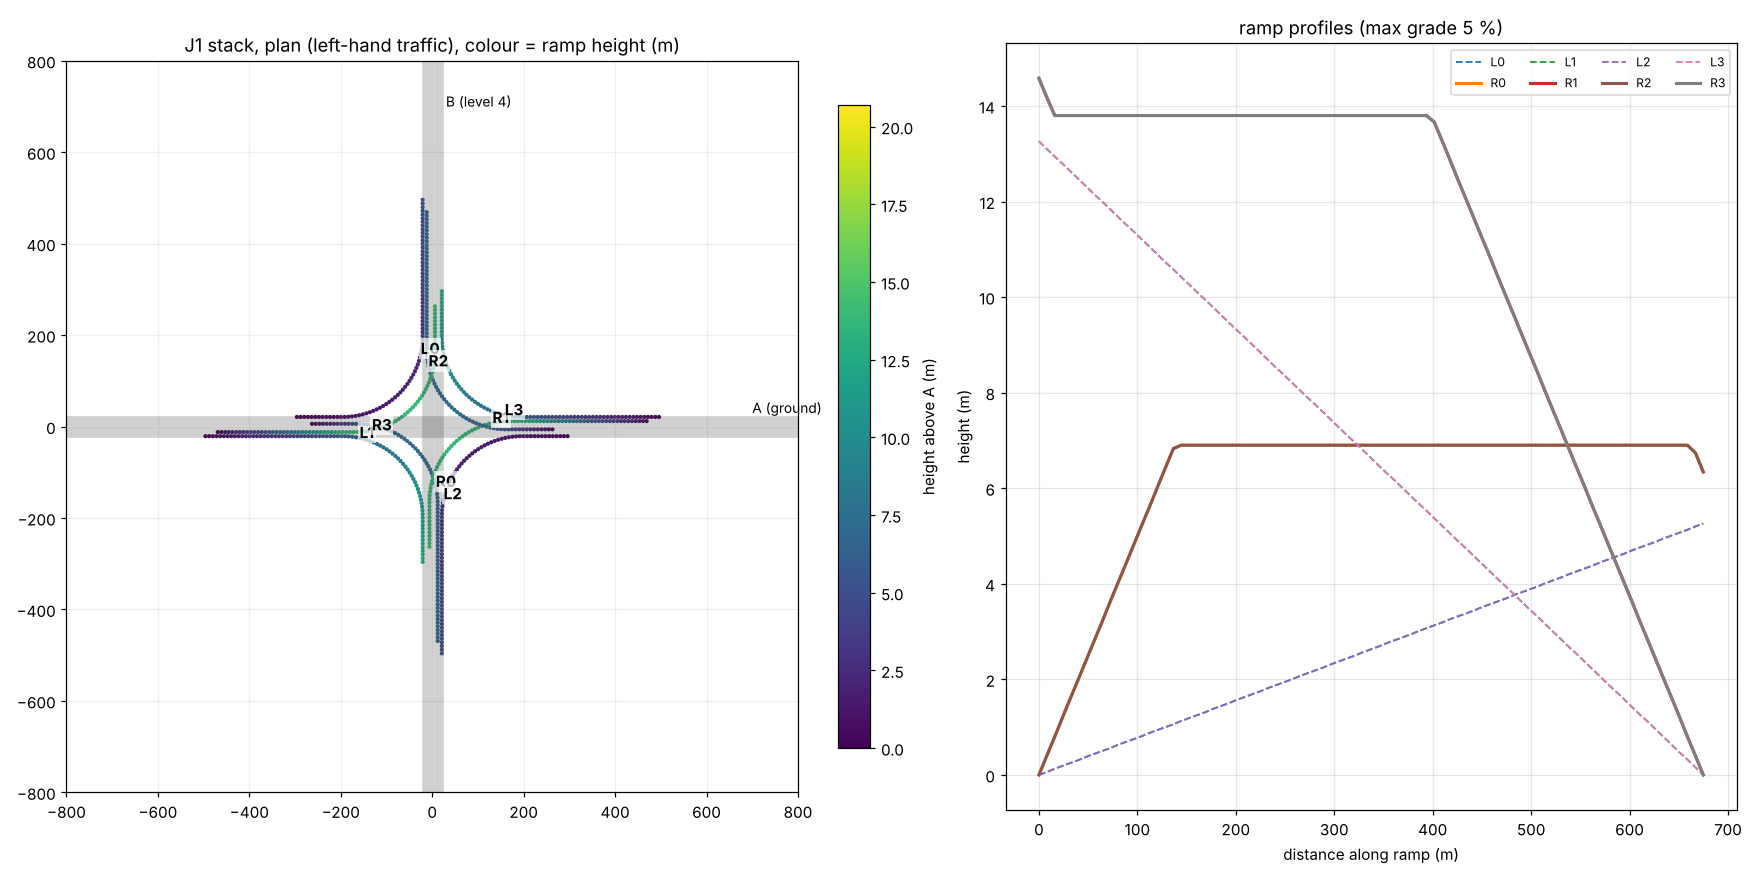
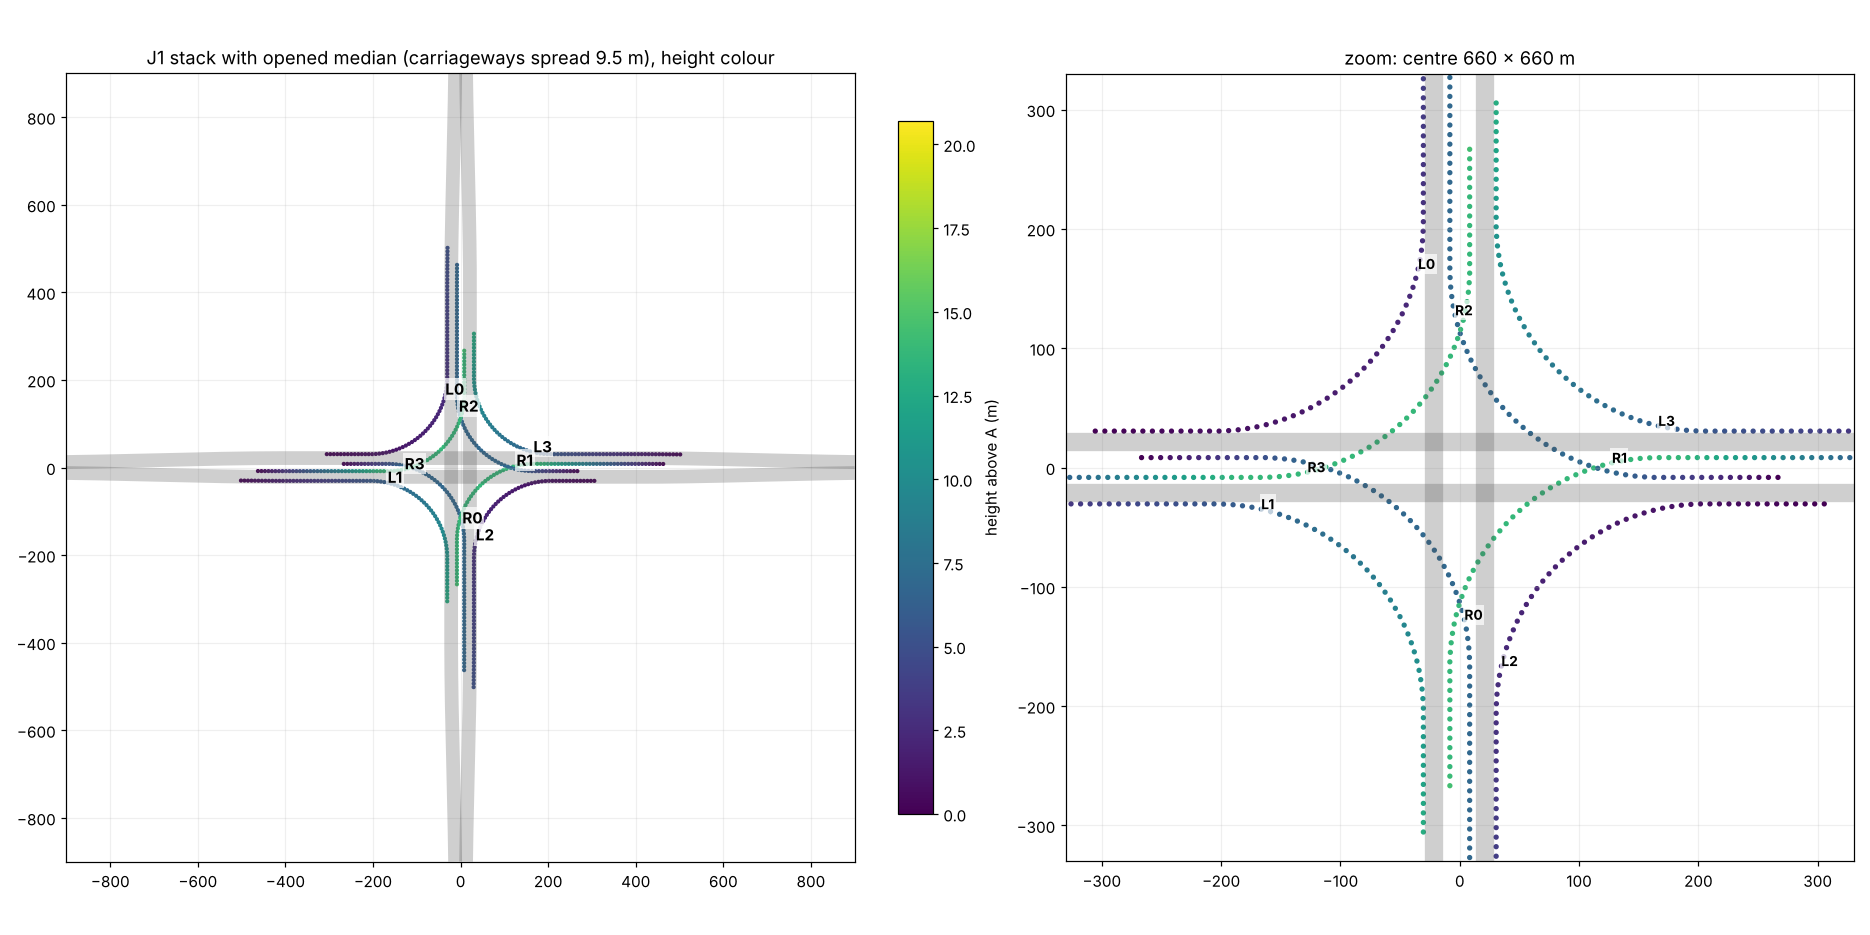
ew

diff --git a/src/interchange/m8/StackGeometry.ts b/src/interchange/m8/StackGeometry.ts
@@ -2,12 +2,23 @@
 // Road A stays on the ground (level 1). Road B is level 4 (20.7 m) over the crossing and falls to the ground at 4 %. 8 ramps = 2 shapes (left slip, right flyover) x 4 rotations.
 import { DEG, Turtle, minRadius as pathMinR, pathLength, resample, rot90, crossings, type P2 } from '../Geometry2D';
 import { DESIGN } from '../../roads/standards/Criteria';
-import { minRadius } from '../../roads/standards/Checks';
+import { laneDropTaper, minRadius } from '../../roads/standards/Checks';
 import { LEVEL_RISE } from './M8Designs';
 
 export const LANE_OFF = 12; // centre of a carriageway from the road axis (outer lane), m
 export const B_TOP = 3 * LEVEL_RISE; // road B over the crossing
 export const B_FLAT = 110; // road B stays at full height this far each side of the centre (the ramps pass under it)
+/** MEDIAN OPENING: the two carriageways of a road move apart by DELTA_F (full from the crossing out to U_FULL), then come back over a shift taper (lane-drop rule 0.62 W V per lane of shift).
+ * The directional ramps run in the opened median, 6 m clear of the pavement edge. */
+export const DELTA_F = 9.5;
+export const U_FULL = 400;
+export const SHIFT_LEN = laneDropTaper(DESIGN.ringSpeed) * (DELTA_F / DESIGN.laneWidth);
+const sm = (t: number): number => (t <= 0 ? 0 : t >= 1 ? 1 : t * t * (3 - 2 * t));
+/** Extra offset (m) of the carriageway centrelines at distance t (along the road) from the crossing. */
+export const spread = (t: number): number => DELTA_F * (1 - sm((Math.abs(t) - U_FULL) / SHIFT_LEN));
+/** Carriageway centre offset from the road axis at distance t. */
+export const cOff = (t: number): number => LANE_OFF + spread(t);
+export const RAMP_MED = 8.3; // ramp centre in the opened median (pavement edge 4.5 + DELTA_F = 14, minus 1.5 shoulder, minus 4.2 half ramp)
 export const yB = (v: number): number => Math.max(0, B_TOP - DESIGN.maxGrade.motorway * Math.max(0, Math.abs(v) - B_FLAT));
 
 export interface StackRamp {
@@ -31,13 +42,22 @@ export function buildStack(P = { Rleft: 175, Rright: 175, run: 100, tail: 300, p
     for (const shape of ['left', 'right'] as const) {
       const R = shape === 'left' ? P.Rleft : P.Rright;
       const V = 60;
-      // k = 0: starts on A going +u. left: leaves the OUTER side (v = +21) and turns left into B+ (u = -21, going +v). right: leaves the MEDIAN side (v = +6) and turns right into B- (u = +12, going -v).
-      const endU = shape === 'left' ? -21 : LANE_OFF;
-      const startV = shape === 'left' ? 21 : 6;
-      const sign = shape === 'left' ? 1 : -1;
+      // k = 0: starts on A going +u. left: leaves the OUTER side and turns left into B+ (going +v), then runs as the outer auxiliary lane of B+.
+      // right: leaves the opened MEDIAN (v = RAMP_MED) and turns right into B- (going -v), then runs in the median beside B- and converges to its inner auxiliary lane.
+      const outer = LANE_OFF + 9 + DELTA_F; // outer auxiliary lane centre at full spread
+      const startV = shape === 'left' ? outer : RAMP_MED;
+      const endU = shape === 'left' ? -outer : RAMP_MED;
       const startU = endU - P.run - R; // a quarter arc moves u by +R for a left AND a right turn
-      const t = new Turtle(startU - 0, startV, 0).straight(P.run).arc(R, sign * 90 * DEG).straight(P.tail);
-      const base = resample(t.pts, 8);
+      const t = new Turtle(startU, startV, 0).straight(P.run).arc(R, (shape === 'left' ? 1 : -1) * 90 * DEG);
+      const arcEnd = t.pts[t.pts.length - 1];
+      const dir = shape === 'left' ? 1 : -1; // tail runs along +v (left) or -v (right)
+      const tail: P2[] = [];
+      for (let d = 8; d <= P.tail + 1e-6; d += 8) {
+        const v = arcEnd.v + dir * d;
+        const sp = spread(v);
+        tail.push({ u: shape === 'left' ? -(LANE_OFF + 9 + sp) : RAMP_MED - (DELTA_F - sp) * ((RAMP_MED - 2.7) / DELTA_F), v });
+      }
+      const base = resample([...t.pts, ...tail], 8);
       const pts = base.map((p) => rot90(p, k));
       const L = pathLength(pts);
       const cum = [0];
@@ -73,9 +93,13 @@ const yAt = (r: StackRamp, f: number): number => lerpAt(r.ys, f);
 /** Every 2D crossing of two ramps, and of a ramp with the 4 carriageway centrelines; the height gap must be >= clearance + deck (LEVEL_RISE). */
 export function clearanceConflicts(ramps: StackRamp[], L = 800): Conflict[] {
   const roads: { id: string; pts: P2[]; y: (p: P2) => number }[] = [];
-  for (const [id, a, b] of [['A+', { u: -L, v: LANE_OFF }, { u: L, v: LANE_OFF }], ['A-', { u: -L, v: -LANE_OFF }, { u: L, v: -LANE_OFF }], ['B+', { u: -LANE_OFF, v: -L }, { u: -LANE_OFF, v: L }], ['B-', { u: LANE_OFF, v: -L }, { u: LANE_OFF, v: L }]] as const) {
+  for (const id of ['A+', 'A-', 'B+', 'B-']) {
     const pts: P2[] = [];
-    for (let i = 0; i <= 200; i++) pts.push({ u: a.u + ((b.u - a.u) * i) / 200, v: a.v + ((b.v - a.v) * i) / 200 });
+    for (let i = 0; i <= 400; i++) {
+      const t = -L + (2 * L * i) / 400;
+      const o = cOff(t) * (id[1] === '+' ? 1 : -1);
+      pts.push(id[0] === 'A' ? { u: t, v: o } : { u: -o, v: t });
+    }
     roads.push({ id, pts, y: id[0] === 'A' ? () => 0 : (p) => yB(p.v) });
   }
   const out: Conflict[] = [];
@@ -100,6 +124,30 @@ export function clearanceConflicts(ramps: StackRamp[], L = 800): Conflict[] {
       const gap = Math.abs(ya - yb);
       if (gap < need - 1e-6) out.push({ a: ramps[i].id, b: ramps[j].id, u: c.u, v: c.v, ya, yb, gap });
     }
+  }
+  return out;
+}
+
+/** The median opening check: a ramp must stay clear of the pavement of every carriageway (half pavement 7.3 + ramp half 4.2 + 1.0 m) unless it is at least a level above / below it.
+ * Its own source road is skipped for the diverge run and its target road along the merge tail (auxiliary lane beside the pavement). */
+export function medianConflicts(ramps: StackRamp[], tail = 300, run = 100): { ramp: string; road: string; u: number; v: number; d: number }[] {
+  const out: { ramp: string; road: string; u: number; v: number; d: number }[] = [];
+  const need = 7.3 + 4.2 + 1.0;
+  for (const r of ramps) {
+    r.pts.forEach((p, i) => {
+      for (const id of ['A+', 'A-', 'B+', 'B-']) {
+        const t = id[0] === 'A' ? p.u : p.v;
+        const sgn = id[1] === '+' ? 1 : -1;
+        const c = cOff(t) * sgn;
+        const d = id[0] === 'A' ? Math.abs(p.v - c) : Math.abs(p.u + c);
+        const yRoad = id[0] === 'A' ? 0 : yB(p.v);
+        if (Math.abs(r.ys[i] - yRoad) >= LEVEL_RISE) continue;
+        const own = id[0] === r.source && r.cum[i] < run + 60;
+        const ownT = id[0] === r.target && r.length - r.cum[i] < tail + 70; // + the last part of the arc, where the ramp converges on the auxiliary lane
+        if (own || ownT) continue;
+        if (d < need) out.push({ ramp: r.id, road: id, u: p.u, v: p.v, d });
+      }
+    });
   }
   return out;
 }

diff --git a/scripts/m8-stack-check.ts b/scripts/m8-stack-check.ts
@@ -1,7 +1,7 @@
 // STEP 9.2 J1 stack check: ramp radius, grade, and vertical clearance at every crossing. Writes docs/m8_stack_plan.json for the plan picture.
 // Run: npx tsx scripts/m8-stack-check.ts
 import { writeFileSync } from 'node:fs';
-import { buildStack, clearanceConflicts, rampMaxGrade, rampMinRadius, rampRminLimit } from '../src/interchange/m8/StackGeometry';
+import { buildStack, clearanceConflicts, medianConflicts, DELTA_F, SHIFT_LEN, U_FULL, rampMaxGrade, rampMinRadius, rampRminLimit } from '../src/interchange/m8/StackGeometry';
 
 const ramps = buildStack();
 let fails = 0;
@@ -14,5 +14,9 @@ for (const r of ramps) {
 const cf = clearanceConflicts(ramps);
 for (const c of cf) console.log(`  CONFLICT ${c.a} x ${c.b} at (${c.u.toFixed(0)}, ${c.v.toFixed(0)}) heights ${c.ya.toFixed(1)} / ${c.yb.toFixed(1)}  gap ${c.gap.toFixed(1)} m < 6.9`);
 console.log(`  clearance: ${cf.length} conflicts`);
+const mc = medianConflicts(ramps);
+for (const c of mc.slice(0, 12)) console.log(`  MEDIAN ${c.ramp} too close to ${c.road} at (${c.u.toFixed(0)}, ${c.v.toFixed(0)}) d ${c.d.toFixed(1)} m < 13.5`);
+console.log(`  median opening: spread ${DELTA_F} m each carriageway, full to ${U_FULL} m, shift taper ${SHIFT_LEN.toFixed(0)} m; ${mc.length} ramp points too close to a pavement`);
+if (mc.length) fails++;
 writeFileSync('docs/m8_stack_plan.json', JSON.stringify(ramps.map((r) => ({ id: r.id, shape: r.shape, u: r.pts.map((p) => +p.u.toFixed(1)), v: r.pts.map((p) => +p.v.toFixed(1)), y: r.ys.map((y) => +y.toFixed(2)) }))));
 console.log(fails || cf.length ? `FAILED radius/grade ${fails}, clearance ${cf.length}` : 'ALL PASS');

diff --git a/HANDOFF_ROAD_DESIGN.md b/HANDOFF_ROAD_DESIGN.md
@@ -580,7 +580,7 @@ Road signs, traffic lights logic changes, new vehicle types, weather effects on 
 | 7H | Hill and mountain roads | not started | | |
 | 8 | At-grade junctions | not started | | |
 | 9.1 | Interchange schedule, four M8 x M8 | proposal done, waiting OK | | User decision 2026-11-13: four junctions of 8 lane x 8 lane, each a DIFFERENT design. Proposed: J1 stack (4 level), J2 turbine (3 level), J3 full cloverleaf with collector-distributor roads (2 level), J4 hybrid (2 direct flyovers + 2 loops, 3 level). Sizing (pure math, assumed flows until 6.4): src/interchange/m8/M8Designs.ts, scripts/m8-interchange-sizing.ts ALL PASS (ramp R >= 1.5 x Rmin, lane capacity, lane balance). Locations NOT fixed: they need the outward M8 roads (6.3). Next 9.2: ramp centrelines + profile of J1, one type at a time |
-| 9.2 | Interchange geometry per type | J1 stack: centrelines + profile done, waiting OK; J2-J4 not started | | J1: src/interchange/m8/StackGeometry.ts, scripts/m8-stack-check.ts (8 ramps, radius >= 1.5 x Rmin(V60), grade <= 5 %, vertical clearance >= 6.9 m at every ramp x ramp / ramp x road crossing: ALL PASS), picture docs/m8_stack_plan.png. Road A on the ground, road B level 4 (20.7 m, flat 110 m, 4 % down). Left turns = slip ramps R175 (outer side), right turns = directional ramps R175 (median side); right A->B on level 2 (6.9 m), right B->A on level 3 (13.8 m) so they can cross. OPEN (not modelled yet): (1) the right ramps start at v = 6 m, which lies inside the carriageway (4.5-19.1 m): the median must open up (carriageways spread) around the centre; (2) lane-level gores, tapers and the 2-lane left ramp aux lane; (3) piers / abutments; (4) V80 R350 of the sizing table was NOT used: a 90 degree swing under road B needs R <= 175 here, so the stack right ramps are V60 (change M8Designs.ts to match); (5) assumed run 100 m + tail 300 m, merge lengths are shorter than accel 206 + taper 183 m |
+| 9.2 | Interchange geometry per type | J1 stack: centrelines + profile + median opening done, waiting OK; J2-J4 not started | | J1: src/interchange/m8/StackGeometry.ts, scripts/m8-stack-check.ts (8 ramps: radius >= 1.5 x Rmin(V60), grade <= 5 %, vertical clearance >= 6.9 m at every ramp x ramp / ramp x road crossing, and every ramp >= 12.5 m (7.3 + 4.2 + 1.0) from every pavement it is not a level away from: ALL PASS), picture docs/m8_stack_plan.png. Road A on the ground, road B level 4 (20.7 m, flat 110 m, 4 % down). MEDIAN OPENING: both carriageways of each road move apart by 9.5 m (full out to 400 m from the crossing, shift taper 589 m = lane-drop rule 0.62 W V per lane of shift), ramp centre in the median at 8.3 m. Left turns = slip ramps R175 on the outer side, right turns = directional ramps R175 in the opened median; right A->B on level 2 (6.9 m), right B->A on level 3 (13.8 m). Sizing table updated to V60 R175 for the stack right ramp. OPEN: (1) lane-level gores / tapers / aux lanes, the 2-lane left ramp, the merge tail is a simple convergence (entry taper 183 m not drawn); (2) piers, abutments, retaining walls; (3) road B profile: flat 110 m is an assumption (the ramps pass under it), (4) not yet in the game / terrain / RoadNetwork |
 | 9.3-9.4 | Flyovers, service roads | not started | | |
 | 10 | Network and hierarchy | not started | | |
 | 11 | Traffic graph | not started | | |
